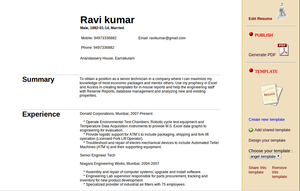
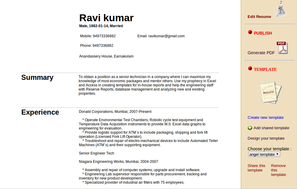
home page

diff --git a/index.php b/index.php
@@ -107,7 +107,7 @@
         }
         $(document).ready(function(){
                 if(load_page()==null)
-                        $("#rightsidebar").html('<div align="justify"><font face="palatino, times, times new roman" size=3><a href="#"><b>Create Resume</b></a><br>It is very easy to customize and update your resume to suit your needs.<br><br><a href="#"><b>Design Template</b></a><br>You can create layouts of your resume. This helps to keep up identity. Be different and attractive.<br><br><a href="#"><b>Preview   Resume</b></a><br>Preview your resume as you write it at each step. <br><br><a href="#"><b>Manage Groups</b></a><br>You can easily manage groups. The owner can set a common template for all its users.<br><br><br><br><br><br><br></font></div><div align="center"><img src="images/res.jpg"></div> <span style="color:red"><br><br> CREATE YOUR RESUME </span><br><br>');
+                        $("#rightsidebar").html('<div align="justify"><font face="palatino, times, times new roman" size=3><a href="#"><b>Create Resume</b></a><br>It is very easy to customize and update your resume to suit your needs.<br><br><a href="#"><b>Design Template</b></a><br>You can create layouts of your resume. This helps to keep up identity. Be different and attractive.<br><br><a href="#"><b>Preview   Resume</b></a><br>Preview your resume as you write it at each step. <br><br><a href="#"><b>Manage Groups</b></a><br>You can easily manage groups. The owner can set a common template for all its users.<br><br><br><br><br><br><br><br><br><br><br><br><br><br></font></div><div align="center"><img src="images/res.jpg"></div> <span style="color:red"><br><br> CREATE YOUR RESUME </span><br><br>');
                 height(32);
                 $("#login_form").submit(function(){
                         var username=$("#login_username").val();
@@ -251,9 +251,18 @@ $("#tips").click(function(){
                         <div align="justify">
                         <font face="palatino, times, times new roman" size=3>
                             Resume Bakery is an ultimate resume management system that helps you to create resumes as u wish. This helps you to market yourself well. It improves your chances of landing on a dream job. There are only four stages for this easy resume creation :</div><br><br>&nbsp;&nbsp;&nbsp;
-                        <span style="color:maroon"><b>Step one : Create Resume</b></span>   <hr><br><br> <img src="images/edit1.png"><br><br>&nbsp;&nbsp;&nbsp;&nbsp;     <b><span style="color:maroon">Step two : Preview resume </span></b><hr><br><br><img src="images/design1.png"><br><br> 		&nbsp;&nbsp;&nbsp;&nbsp;&nbsp;<b> <span style="color:maroon">Step three : Design Template</span></b>  <hr><br><br><img src="images/preview1.png"><br><br>
+                        <span style="color:maroon"><b>Step one : Create Resume</b></span>   <hr><br><br> <img src="images/edit1.png"> 
+		<span style="color:maroon;float: right;width: 290px;font-size: 14px;">This enables you to create resume eaisly<br><br> <img src="images/redball.gif"/>Flexiblity to add Sections <br><br>  <img src="images/redball.gif"/> Options to share Resume <br><br> <img src="images/redball.gif"/> Inline editting option <br><br> <img src="images/redball.gif"/>Eaisly upload photo</span><br><br>&nbsp;&nbsp;&nbsp;&nbsp;   
+
+  <b><span style="color:maroon">Step two : Preview resume </span></b>
+<hr><br><br><img src="images/design1.png"> 	<span style="color:maroon;float: right;width: 290px;font-size: 14px;">Provides user with smart and formal apperence <br><br> <img src="images/redball.gif"/>Generate pdf copy <br><br>  <img src="images/redball.gif"/> Flexibility to choose from shared templates <br><br> <img src="images/redball.gif"/> Edit if needed <br></span>
+
+
+
+	&nbsp;&nbsp;&nbsp;&nbsp;&nbsp;<b> <span style="color:maroon">Step three : Design Template</span></b>  <hr><br><br><img src="images/preview1.png"><span style="color:maroon;float: right;width: 290px;font-size: 14px;">Flexibily design your template . Be diffrent .<br><br> <img src="images/redball.gif"/>User can generate or adopt resume templates <br><br>  <img src="images/redball.gif"/>Add attributes to format your resume  <br><br> <img src="images/redball.gif"/> Save and use it <br></span>
+ <hr>
                         </font>
-                        <hr>
+               
                         <br><br>
 
                         <div id="container_middle1">
